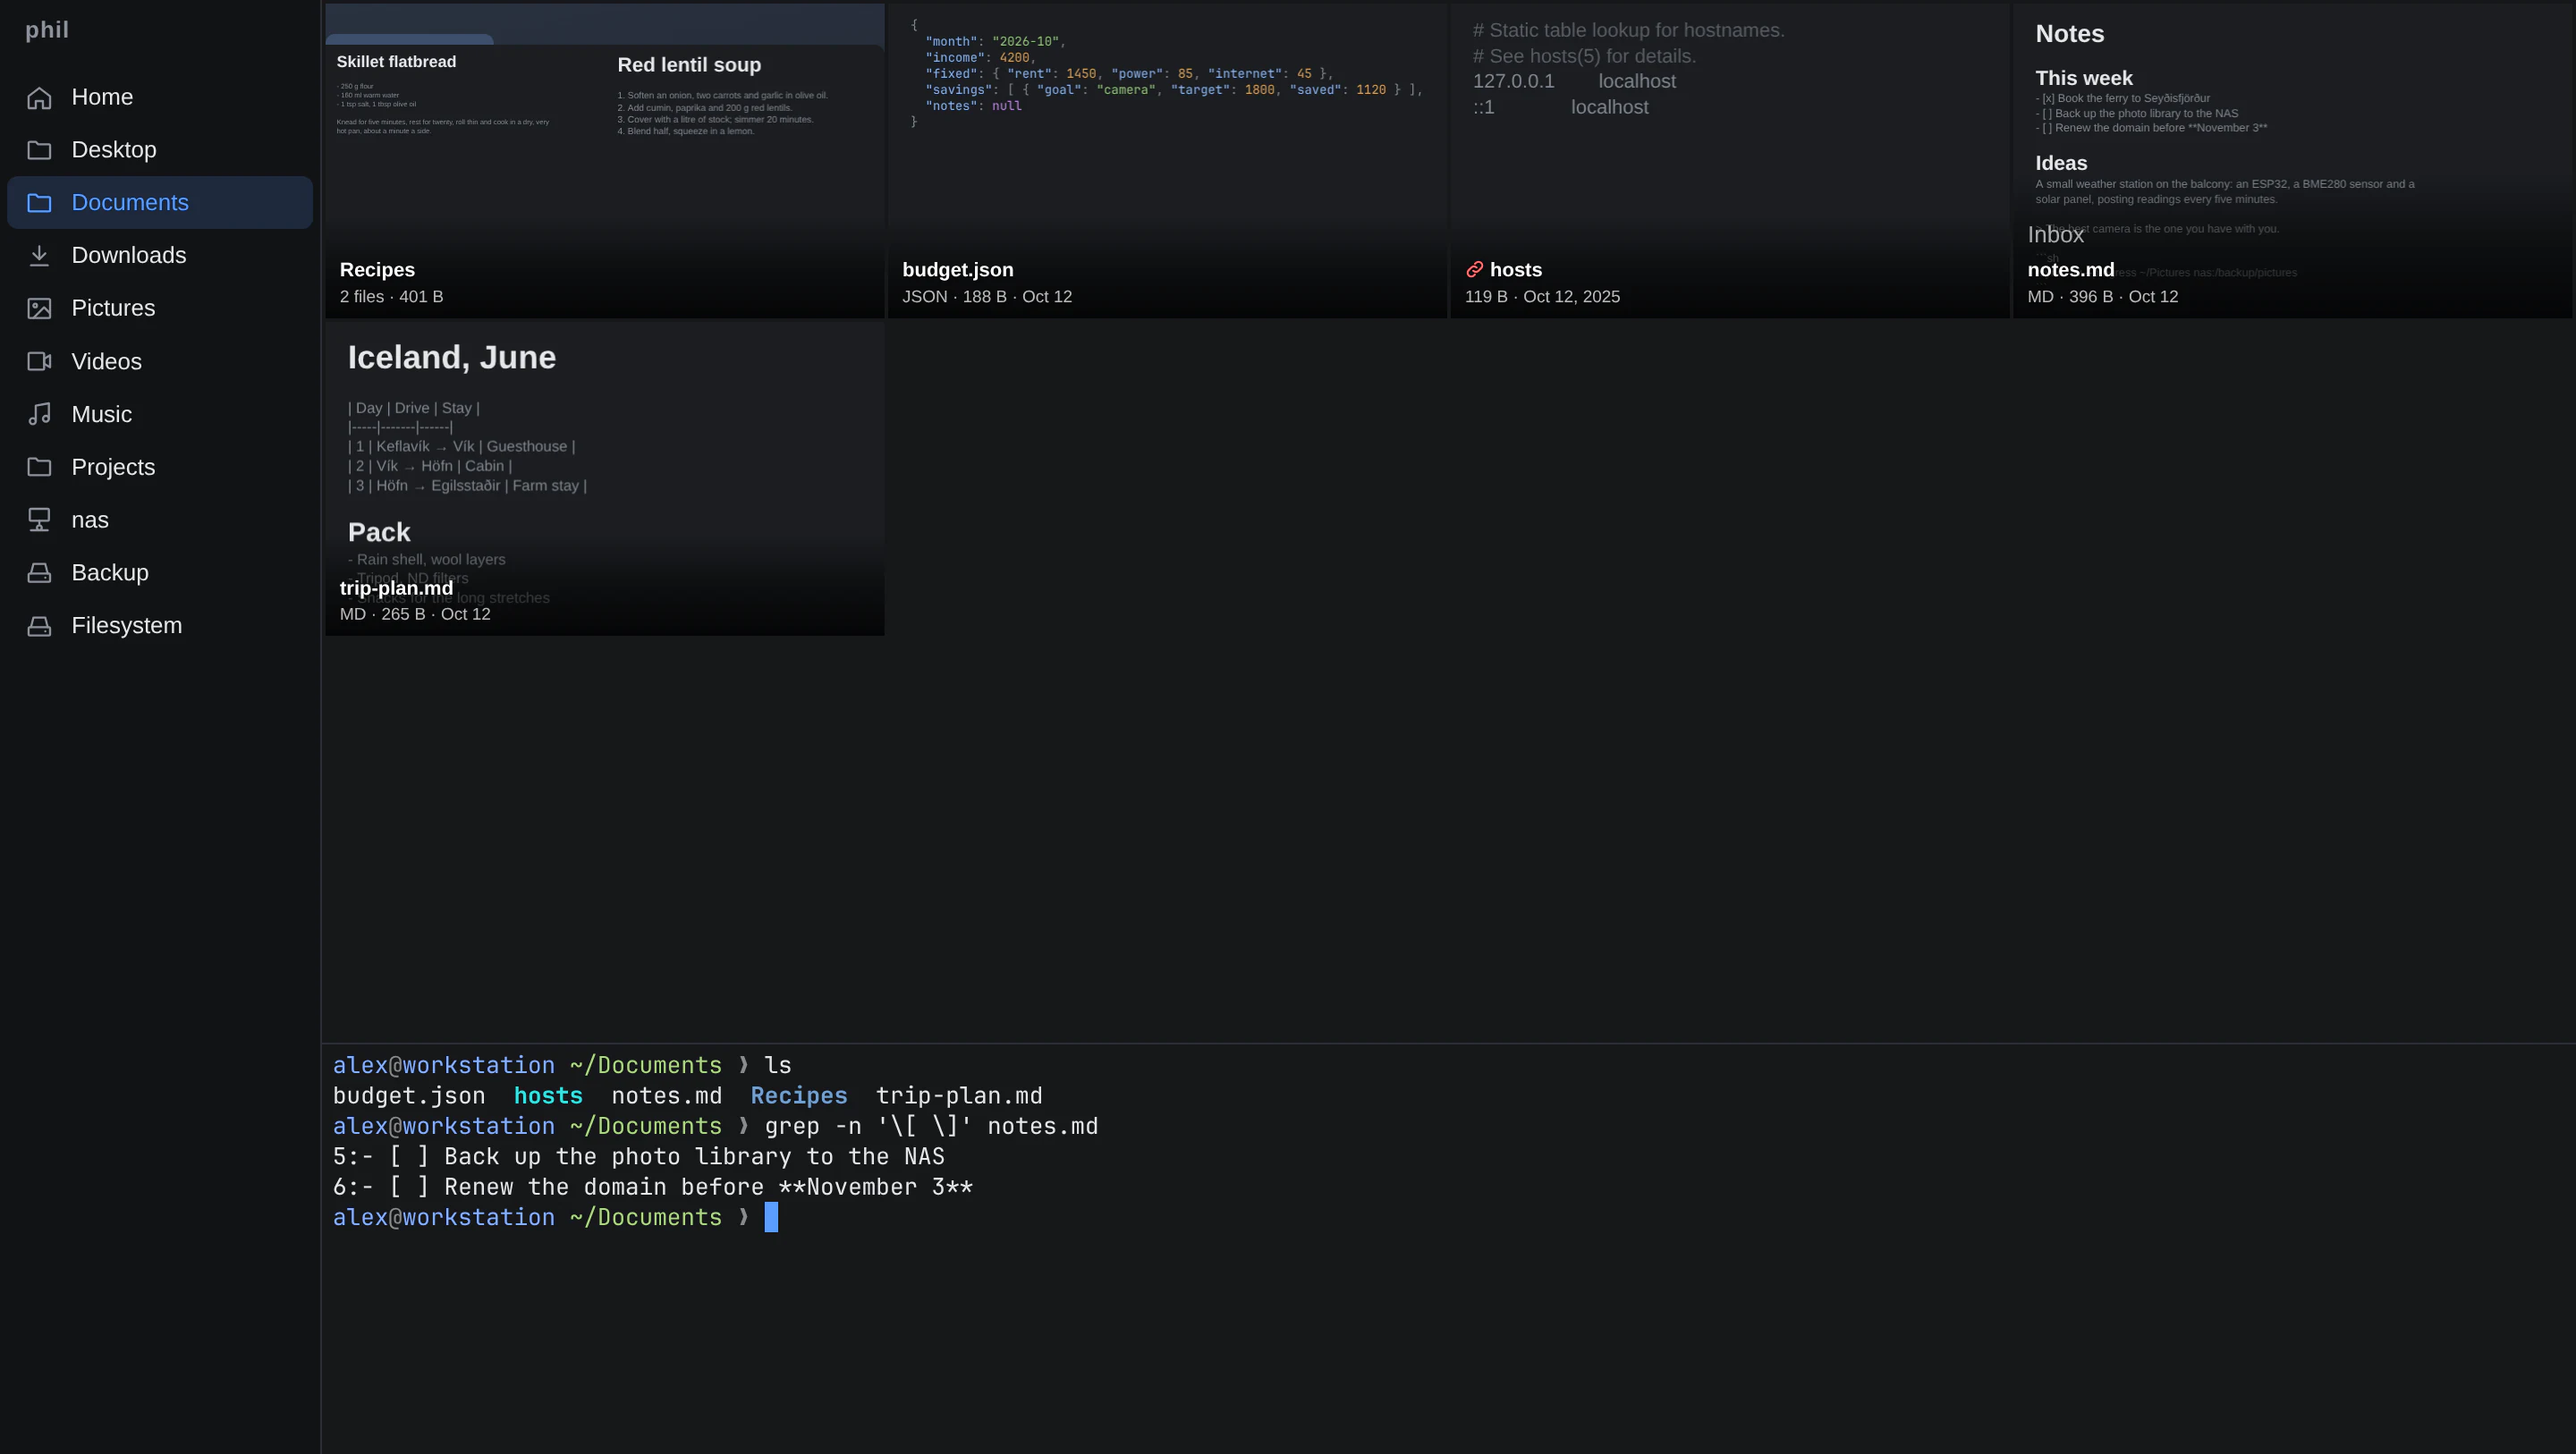
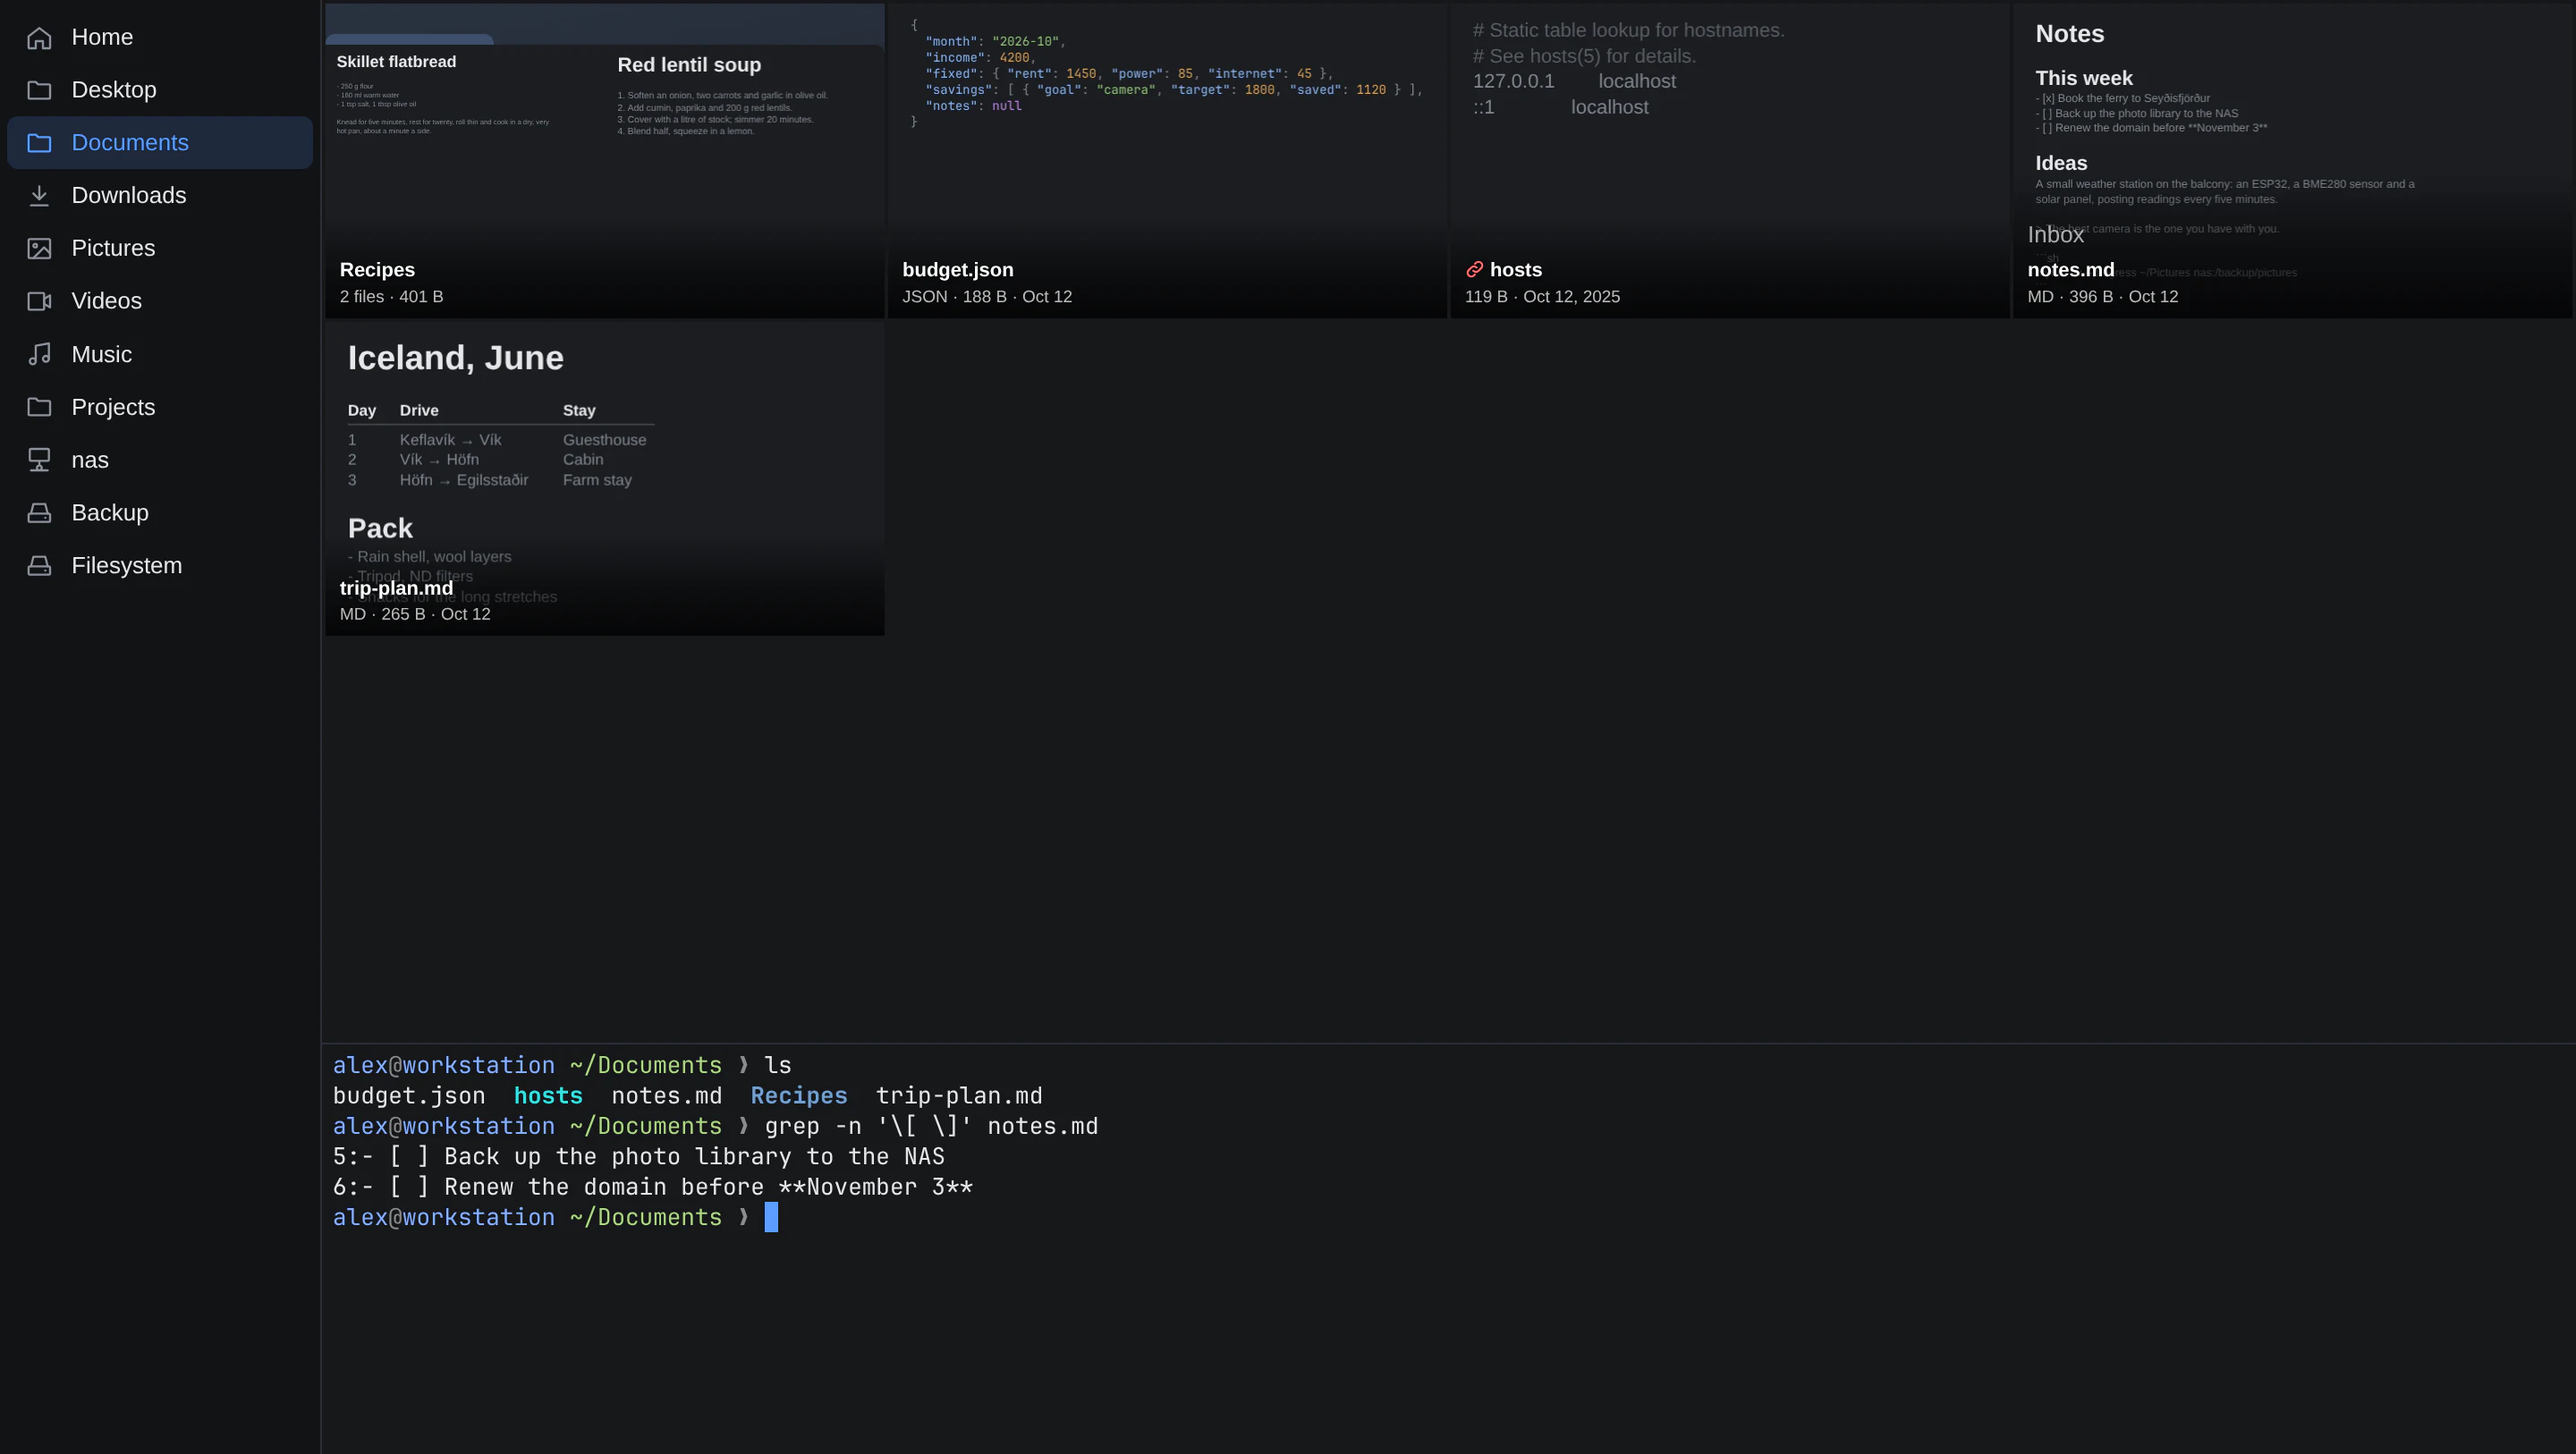
No "phil" heading over the sidebar; Markdown tables drawn as tables on text tiles; screenshots again
Claude-Session: https://claude.ai/code/session_017ARhVFPUT4MnMeCqxVuHaJ

Changed region(s): [[0.0, 0.0615, 0.125, 0.3998], [0.125, 0.2153, 0.25, 0.3998], [0.0, 0.0, 0.0312, 0.0308]]

diff --git a/apps/phil/ui/app.js b/apps/phil/ui/app.js
@@ -281,7 +281,8 @@ function drawText(box) {
   const pad = Math.max(3, w * 0.04);
   const charW = prose ? 0.5 : 0.6; // average character width, in ems
   const sizeOf = (kind, body) => (HEADING[kind] ? Math.max(body * HEADING[kind][0], HEADING[kind][1]) : body);
-  const height = (body) => lines.reduce((sum, [kind]) => sum + sizeOf(kind, body) * LINE_HEIGHT, 0);
+  const rowOf = (kind, body) => (kind === "tsep" ? body * 0.6 : sizeOf(kind, body) * LINE_HEIGHT); // a table's header rule is a thin line
+  const height = (body) => lines.reduce((sum, [kind]) => sum + rowOf(kind, body), 0);
   // As large as fits: at most 11px, and narrow enough for the typical line.
   const widths = lines.map(([, t]) => t.trimEnd().length).filter(Boolean).sort((a, b) => a - b);
   const cols = Math.max(30, Math.min(100, widths[Math.floor(widths.length * 0.9)] ?? 30));
@@ -305,11 +306,31 @@ function drawText(box) {
   // (Markdown, plain text) looks like a document instead.
   const runs = prose ? null : box.text.runs;
   if (!prose && !runs) highlightText(box);
+  // Markdown tables: their cells in columns, as wide as each column's widest
+  // cell; the header (the row over the "|---|" line) bold, the line a rule.
+  const tables = new Map(); // a table row's index -> { cols: x of each column, width, header }
+  if (prose) {
+    ctx.font = `400 ${body}px ${family}`;
+    for (let i = 0; i < lines.length; i++) {
+      if (!lines[i][0].startsWith("t")) continue;
+      const start = i;
+      while (i < lines.length && lines[i][0].startsWith("t")) i++;
+      const rows = lines.slice(start, i).map(([kind, t]) => (kind === "tr" ? cellsOf(t) : null));
+      const widths = [];
+      rows.forEach((cells) => cells?.forEach((c, j) => (widths[j] = Math.max(widths[j] ?? 0, ctx.measureText(c).width * 1.1)))); // bold is wider
+      const gap = body * 1.4, cols = [];
+      let x = pad;
+      for (const cw of widths) cols.push(x), (x += cw + gap);
+      rows.forEach((cells, k) => tables.set(start + k, { cells, cols, width: x - gap - pad, header: lines[start + k + 1]?.[0] === "tsep" }));
+    }
+  }
   let y = pad * 0.6;
   lines.forEach(([kind, text], i) => {
     const size = sizeOf(kind, body);
-    y += size * LINE_HEIGHT;
+    y += rowOf(kind, body);
     if (y - size > h || !text.trim()) return;
+    const table = tables.get(i);
+    if (table) return drawRow(table, y, size);
     const heading = !!HEADING[kind];
     const plain = heading ? strong : dim;
     let line = runs?.[i] ?? [[text, null]];
@@ -335,7 +356,28 @@ function drawText(box) {
       }
     }
   });
+
+  function drawRow({ cells, cols, width, header }, y, size) {
+    if (!cells) { // the rule under the header
+      ctx.globalAlpha = 0.45;
+      ctx.fillStyle = dim;
+      ctx.fillRect(pad, y - size * 0.35, width, Math.max(0.5, size * 0.08));
+      return;
+    }
+    ctx.globalAlpha = header ? 1 : 0.9;
+    ctx.fillStyle = header ? strong : dim;
+    cells.forEach((cell, j) => {
+      if (cols[j] > w) return;
+      if (size * dpr >= 3) {
+        ctx.font = `${header ? 700 : 400} ${size}px ${family}`;
+        ctx.fillText(cell, cols[j], y - size * 0.3);
+      } else if (cell) ctx.fillRect(cols[j], y - size, cell.length * size * charW, size * 0.75);
+    });
+  }
 }
+
+// A Markdown table row's cells: "| a | b |" -> ["a", "b"] (an escaped \| stays).
+const cellsOf = (row) => row.trim().replace(/^\|/, "").replace(/\|$/, "").split(/(?<!\\)\|/).map((c) => c.trim().replace(/\\\|/g, "|"));
 
 // Text tiles are drawn plain at once, and again in color when the syntax
 // worker (engine/ui/syntax-worker.js) has highlighted them, in the background.

diff --git a/apps/phil/texthead.js b/apps/phil/texthead.js
@@ -7,6 +7,7 @@ const MAX_CHARS = 200; // per line
 /**
  * The start of a text file, for drawing on its tile (ui/app.js): up to 400
  * lines (`maxLines`, of up to `maxChars` characters), each [kind, text] where kind is "h1".."h6" for a Markdown heading,
+ * "tr" for a Markdown table's row and "tsep" for the line under its header,
  * "c" for a comment line and "" otherwise. `prose`: Markdown or plain text,
  * drawn in a proportional font. `name`: the file's, for its highlighting. null for files that aren't text (binary, or
  * not UTF-8) or are empty.
@@ -24,7 +25,8 @@ export async function textHead(path, { maxLines = MAX_LINES, maxChars = MAX_CHAR
     const trimmed = line.trimStart();
     if (markdown && trimmed.startsWith("```")) fenced = !fenced;
     const heading = markdown && !fenced && /^(#{1,6})\s/.exec(trimmed);
-    const kind = heading ? `h${heading[1].length}` : comment?.test(trimmed) ? "c" : "";
+    const table = markdown && !fenced && /^\|.*\|\s*$/.test(trimmed);
+    const kind = heading ? `h${heading[1].length}` : table ? (/^[|\s:-]+$/.test(trimmed) ? "tsep" : "tr") : comment?.test(trimmed) ? "c" : "";
     return [kind, line];
   });
   if (!lines.some(([, l]) => l.trim())) return null;

diff --git a/apps/phil/ui/style.css b/apps/phil/ui/style.css
@@ -59,13 +59,6 @@ body.sidebar #sidebar {
   overflow-y: auto;
 }
 
-.brand {
-  padding: 2px 10px 14px;
-  font-weight: 700;
-  letter-spacing: 0.04em;
-  color: var(--text-dim);
-}
-
 #places a {
   display: flex;
   align-items: center;

diff --git a/apps/phil/ui/index.html b/apps/phil/ui/index.html
@@ -38,7 +38,6 @@
   </svg>
 
   <aside id="sidebar">
-    <div class="brand">phil</div>
     <nav id="places" aria-label="Places"></nav>
   </aside>
 
